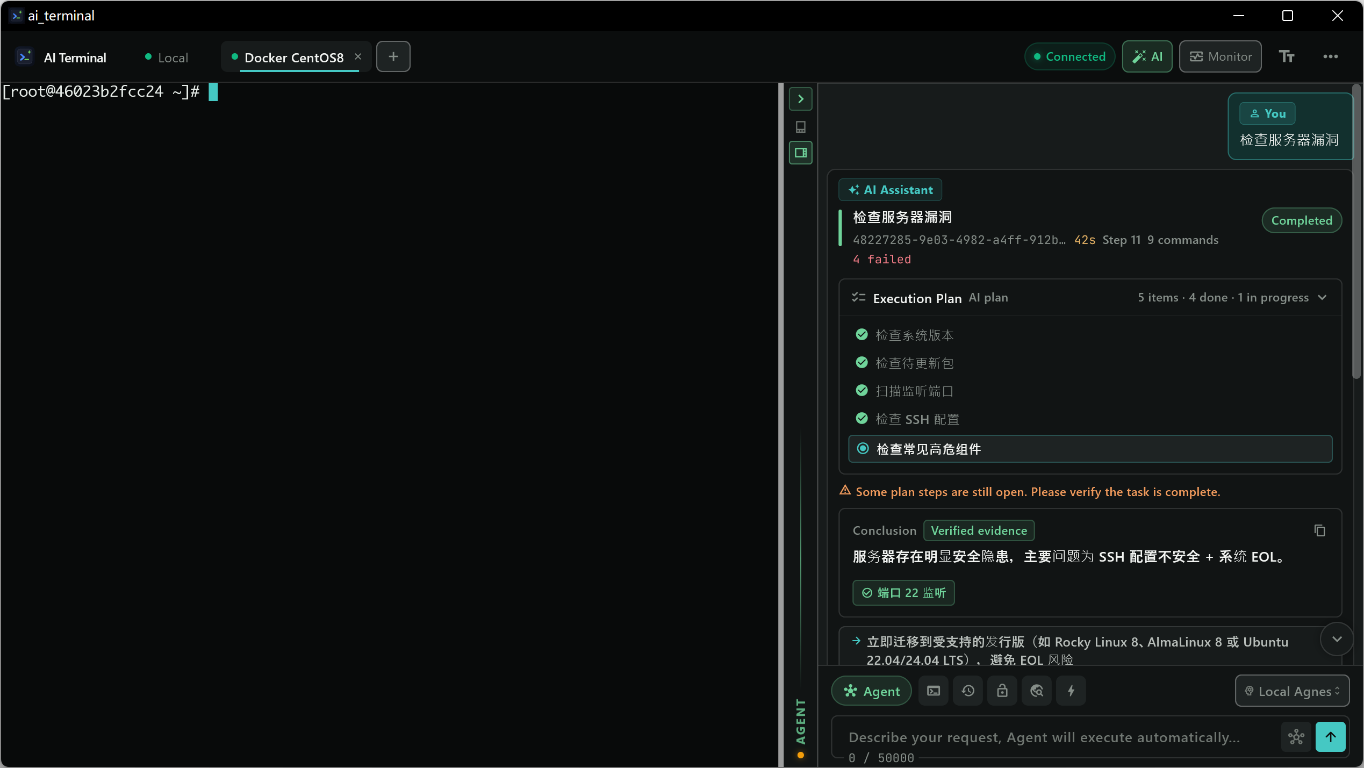
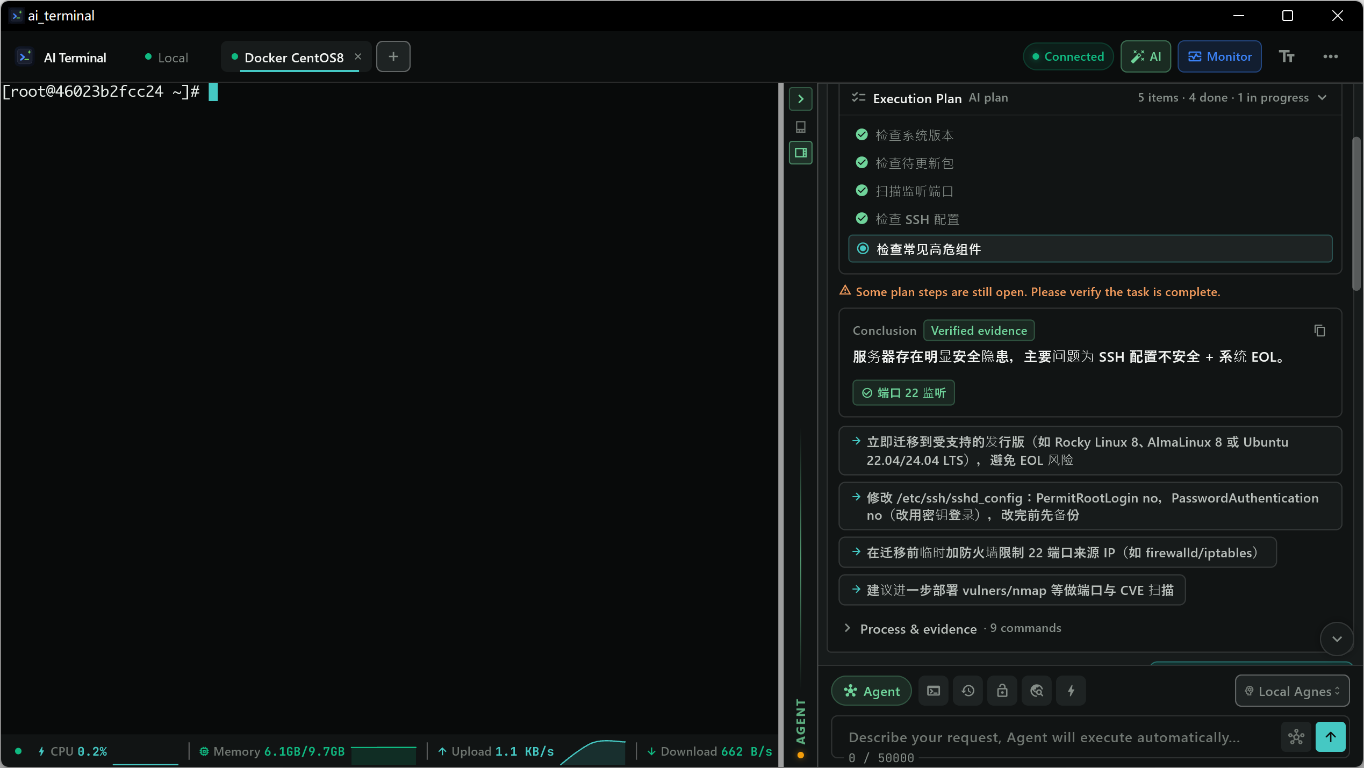
docs(readme): 增加英文深色功能截图画廊
- 新增 Agent 操作单 + 实时监控、运维工具、变更记录、外观主题截图
- 变更记录截图隐藏主机 IP
- 中英文 README 使用带说明的 2x2 截图区

diff --git a/README_EN.md b/README_EN.md
@@ -89,9 +89,18 @@ Instead of stacking thinking, commands, and output into one long chat transcript
 
 ## Screenshots
 
-| Agent operation sheet (English / dark) | Appearance settings (English / dark) |
+| Agent operation sheet + live metrics | Operations toolkit |
 |:---:|:---:|
-| <img src="./docs/screenshots/operation-sheet-dark-en.png" width="440" /> | <img src="./docs/screenshots/settings-dark-en.png" width="440" /> |
+| <img src="./docs/screenshots/operation-sheet-dark-en.png" width="440" /> | <img src="./docs/screenshots/settings-overview-dark-en.png" width="440" /> |
+
+| Change records & audit | Appearance & themes |
+|:---:|:---:|
+| <img src="./docs/screenshots/change-records-dark-en.png" width="440" /> | <img src="./docs/screenshots/settings-dark-en.png" width="440" /> |
+
+- **Agent Operation Sheet**: goal, execution plan, verified conclusion, next actions and folded evidence; live CPU/memory/disk/network metrics stay visible below the terminal.
+- **Operations toolkit**: servers, snippets, runbooks, change records, activity log, safe hours and notifications in one place.
+- **Change records**: command, time, result and host are traceable; host IPs are redacted in the screenshot.
+- **Appearance & themes**: switch between graphite dark/light themes and adjust terminal font size.
 
 ## Download
 

diff --git a/README.md b/README.md
@@ -89,9 +89,18 @@ AI Terminal 是一个把 AI 助手、SSH 远程终端和本地终端放在同一
 
 ## 截图
 
-| Agent 操作单（英文 / 深色） | 外观设置（英文 / 深色） |
+| Agent 操作单 + 实时监控 | 运维工具与自动化 |
 |:---:|:---:|
-| <img src="./docs/screenshots/operation-sheet-dark-en.png" width="440" /> | <img src="./docs/screenshots/settings-dark-en.png" width="440" /> |
+| <img src="./docs/screenshots/operation-sheet-dark-en.png" width="440" /> | <img src="./docs/screenshots/settings-overview-dark-en.png" width="440" /> |
+
+| 变更记录与审计 | 外观与主题 |
+|:---:|:---:|
+| <img src="./docs/screenshots/change-records-dark-en.png" width="440" /> | <img src="./docs/screenshots/settings-dark-en.png" width="440" /> |
+
+- **Agent 操作单**：目标、执行计划、验证结论、变更建议和证据折叠；底部同时显示 CPU/内存/磁盘/网络监控。
+- **运维工具**：服务器、快捷命令、Runbook、变更记录、操作日志、安全时段、任务通知集中在一个入口。
+- **变更记录**：命令、时间、结果和主机可追溯；截图中的主机 IP 已隐藏。
+- **外观与主题**：深色/浅色石墨青主题切换、终端字号调整。
 
 ## 下载安装
 
